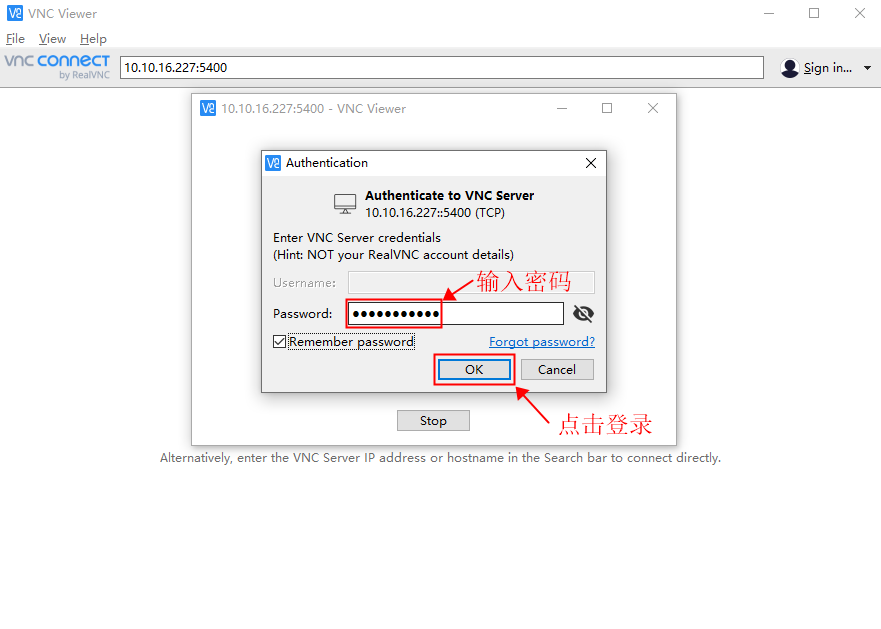
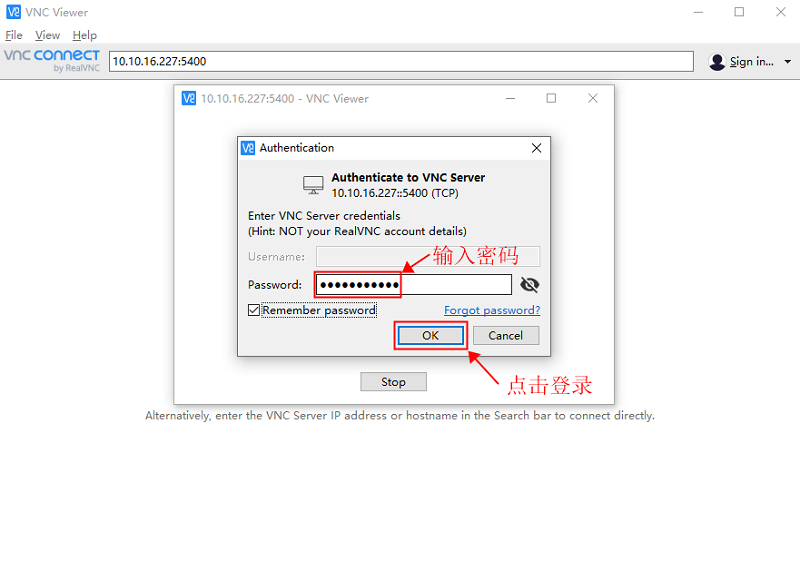
修改图片分辨率

diff --git a/docs/云手机使用指导.md b/docs/云手机使用指导.md
@@ -34,8 +34,7 @@
 登录成功后即可进入如下云手机桌面。  
 ![VNC](images/vnc-12.png#pic_center)     
 按照如下图所示设置去除窗口四周黑边。  
-![VNC](images/vnc-13.png#pic_center)       
-![VNC](images/vnc-14.png#pic_center)        
+![VNC](images/vnc-13.png#pic_center)![VNC](images/vnc-14.png#pic_center)        
 ## 通过Airtest连接（远程桌面登录）  
 **步骤一：下载airtest工具（下载地址：http://airtest.netease.com/index.html)**  
 ![VNC](images/vnc-15.png#pic_center)   
